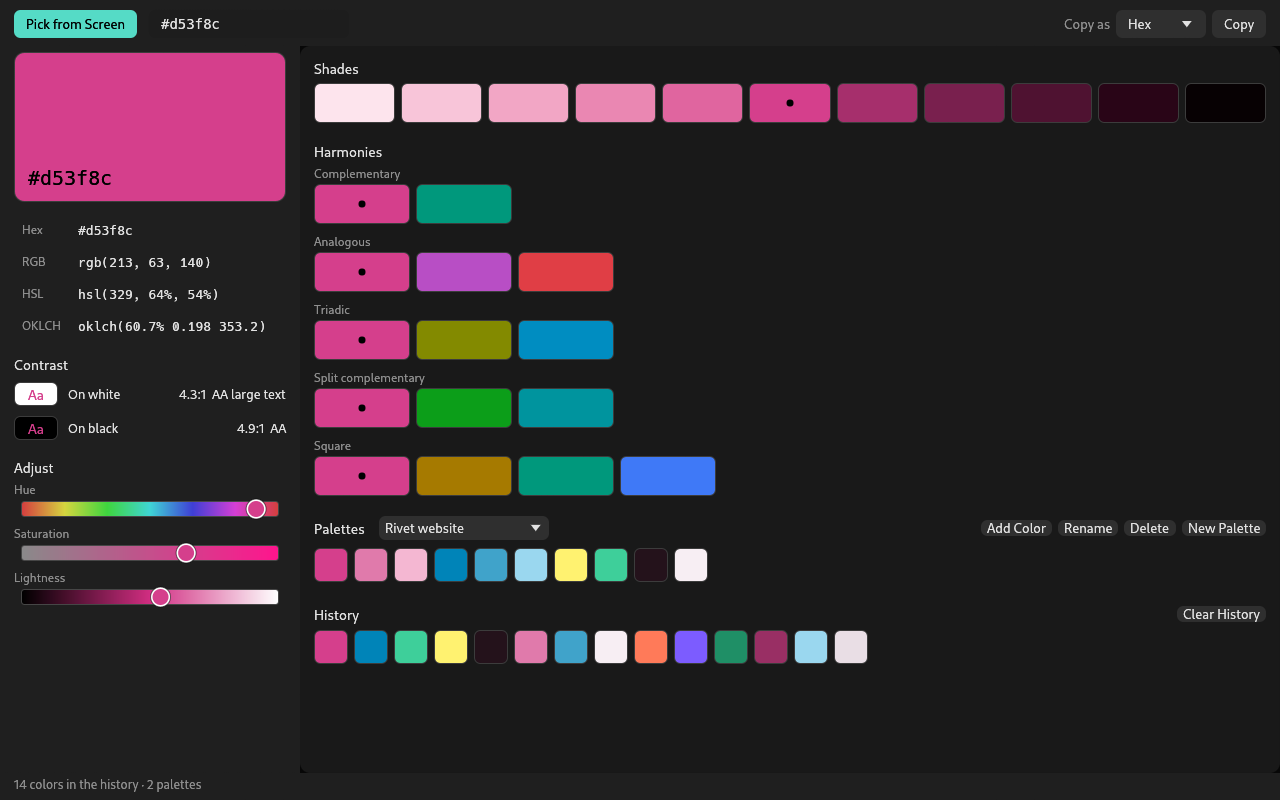
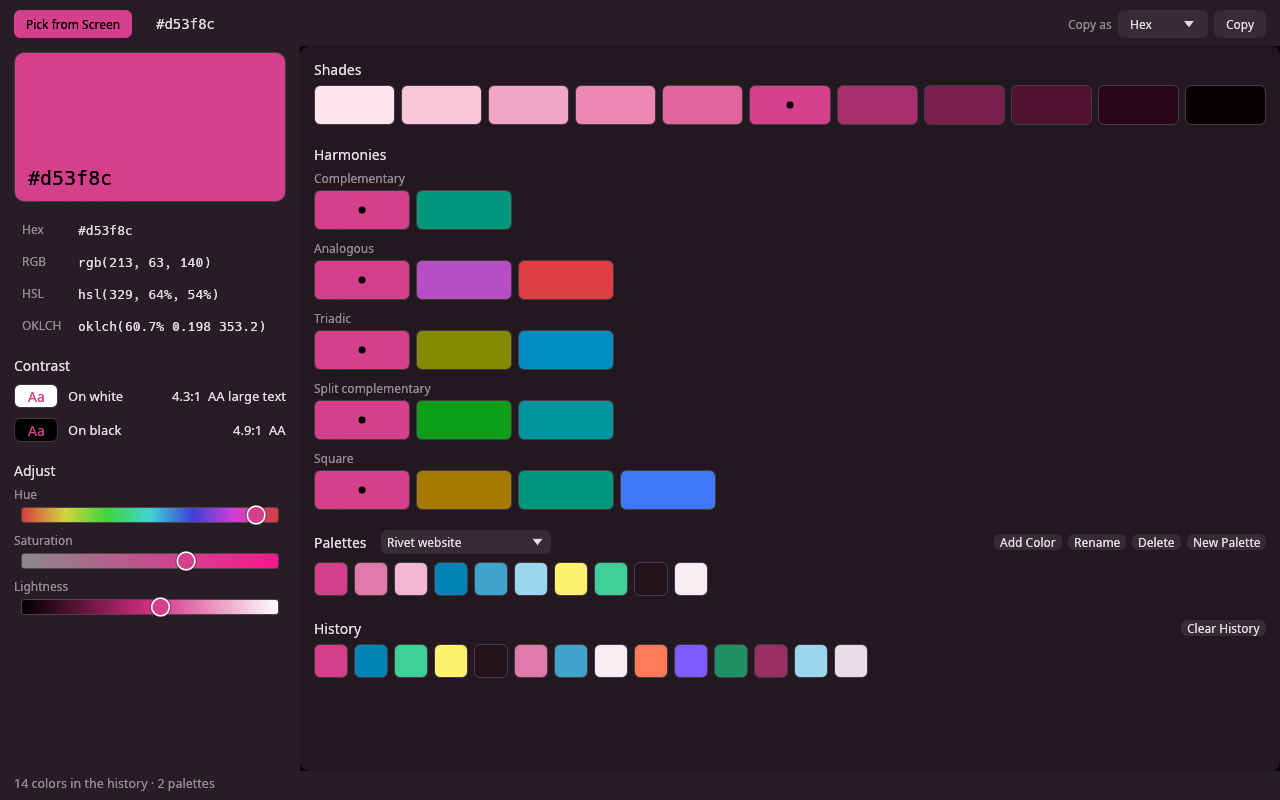
Snip, Vice, Calendar and Fetch have screenshots on their pages and the home page, and Color's is in the Rivet scheme.

diff --git a/src/data/apps.ts b/src/data/apps.ts
@@ -274,6 +274,9 @@ export const apps: AppEntry[] = [
     tagPrefixes: ["rivet-snip-v"],
     nav: false,
     applicationCategory: "GraphicsApplication",
+    cardShot: "rivet-snip-wide.png",
+    cardAlt: "Rivet Snip with a screenshot marked up with an arrow, a box, numbered steps and blur",
+    cardCaption: "Rivet Snip with a marked-up screenshot.",
     icon: "rivet-snip.svg",
     readme: "apps/rivet-snip/README.md",
     summary:
@@ -292,6 +295,9 @@ export const apps: AppEntry[] = [
     tagPrefixes: ["rivet-vice-v"],
     nav: false,
     applicationCategory: "UtilitiesApplication",
+    cardShot: "rivet-vice-wide.png",
+    cardAlt: "Rivet Vice inside a tar.gz archive, with two photos selected to extract",
+    cardCaption: "Rivet Vice, with two photos chosen to take out.",
     icon: "rivet-vice.svg",
     readme: "apps/rivet-vice/README.md",
     summary:
@@ -310,6 +316,9 @@ export const apps: AppEntry[] = [
     tagPrefixes: ["rivet-calendar-v"],
     nav: false,
     applicationCategory: "ProductivityApplication",
+    cardShot: "rivet-calendar-wide.png",
+    cardAlt: "Rivet Calendar's month view, with work, family, personal and holiday calendars",
+    cardCaption: "Rivet Calendar's month view.",
     icon: "rivet-calendar.svg",
     readme: "apps/rivet-calendar/README.md",
     summary:
@@ -330,6 +339,9 @@ export const apps: AppEntry[] = [
     program: "rivetfetch",
     nav: false,
     applicationCategory: "UtilitiesApplication",
+    cardShot: "rivet-fetch-wide.png",
+    cardAlt: "rivetfetch in Rivet Terminal: the mascot beside the computer's OS, kernel, CPU, memory and Rivet apps",
+    cardCaption: "rivetfetch in Rivet Terminal.",
     readme: "apps/rivet-fetch/README.md",
     summary:
       "A system summary in the terminal, beside Rivet the mascot, in the desktop's accent: OS, host, kernel, uptime, packages, shell, window manager, CPU, GPU and memory.",
